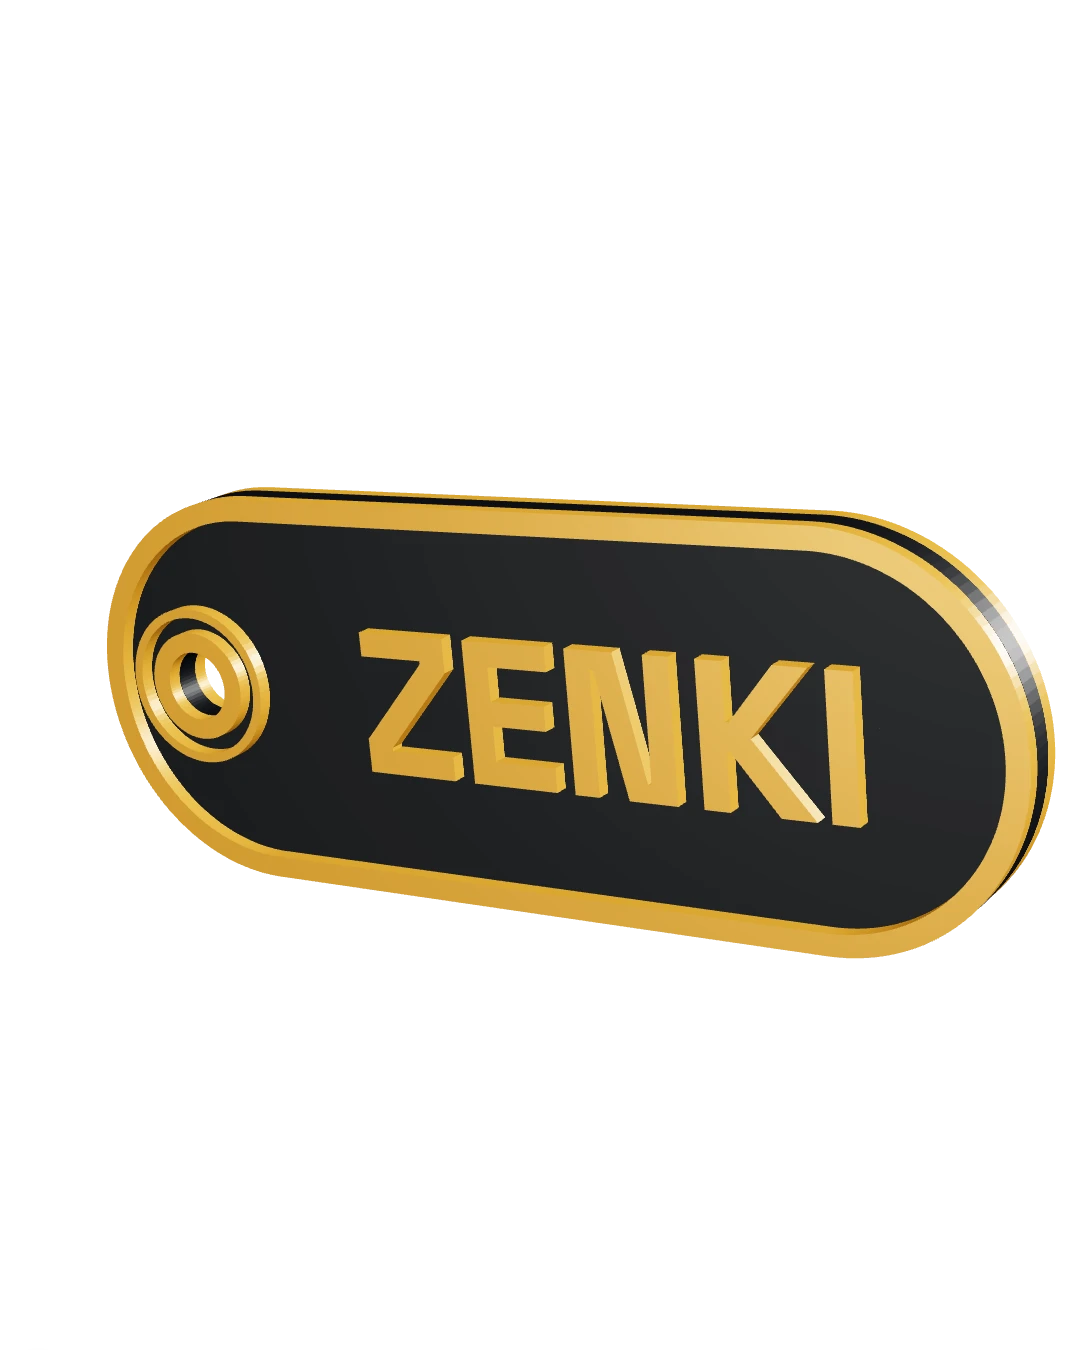
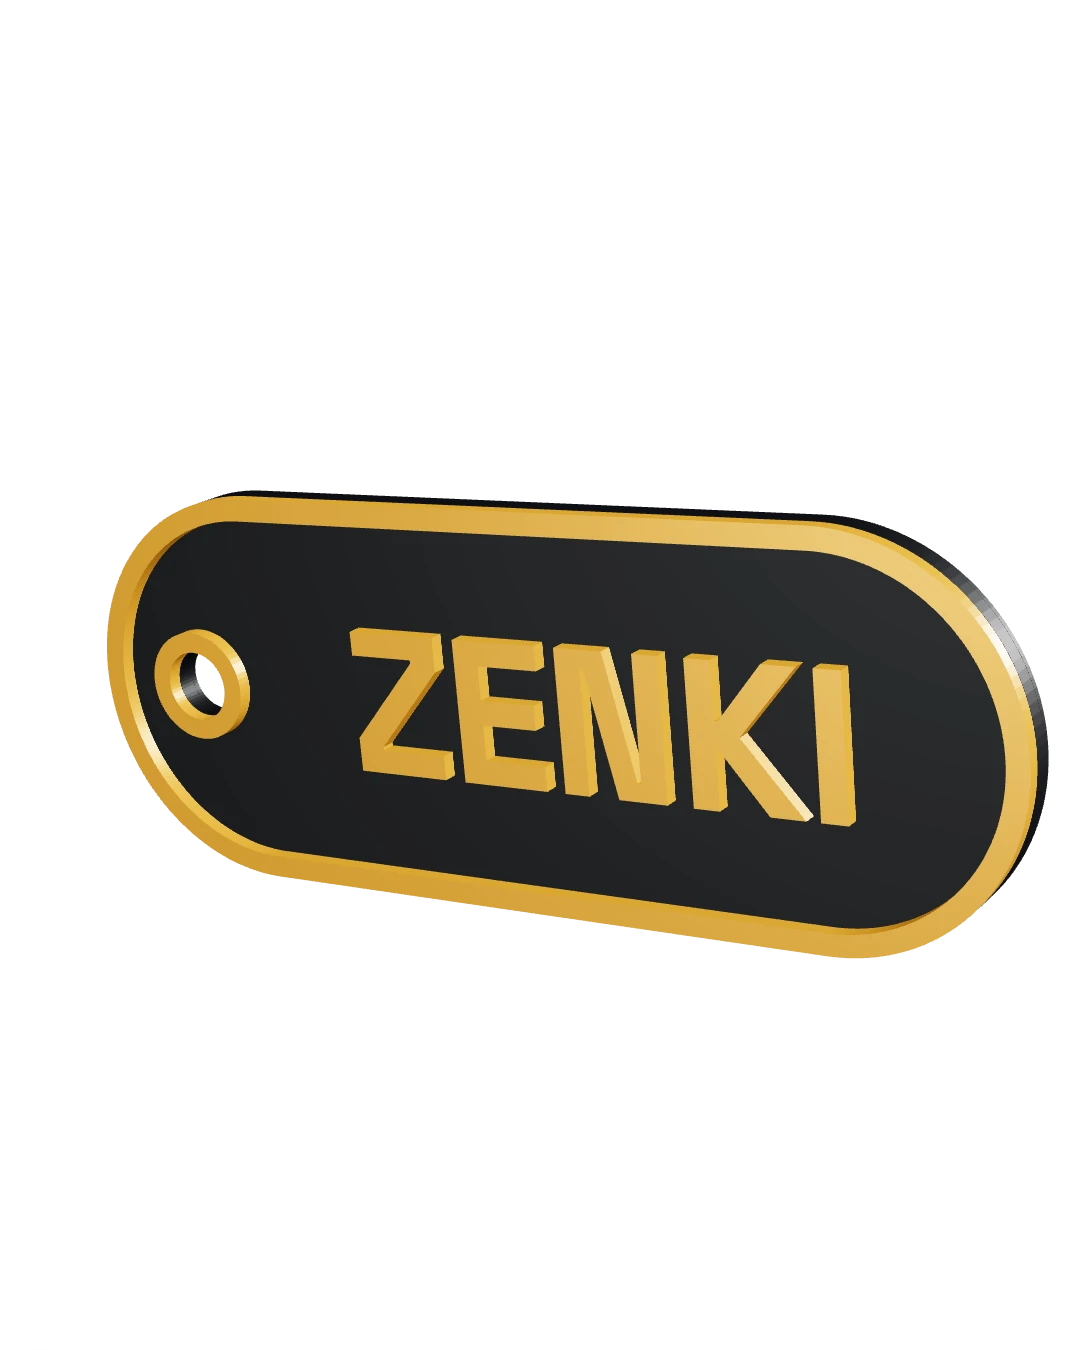
feat: flat back and a single ring on the key tag
The back is completely flat with no rim, ring or relief. The marketing line, when kept, is a flush 0.4 mm color inlay. One ring around the keyring hole instead of two. Tag is 2.6 mm thick and prints back face down. RFID pocket moved up so it clears the inlay.

diff --git a/src/components/keytag/geometry.ts b/src/components/keytag/geometry.ts
@@ -6,12 +6,14 @@ import fontData from "./spacegrotesk_bold.typeface.json";
 import { COMBOS, TAG, type KeyTagConfig } from "@/lib/keytag";
 
 // All units are millimetres. Front face is +Z, the tag lies flat.
-// Capsule with a raised rim, raised lettering and rings on both faces. Everything inside the
-// rim is the recessed floor (debossed by TAG.EMBOSS). Floor and rim are separate meshes so the
-// printer can use two colors: black floor, accent rim and lettering.
+// FRONT: a raised rim, one ring around the keyring hole and raised lettering stand TAG.EMBOSS
+// above a recessed floor.
+// BACK: completely flat. If the marketing line is kept it is a flush color inlay (no relief).
+// Floor and accent are separate meshes so the printer can use two colors.
 const font = new FontLoader().parse(fontData as unknown as Parameters<FontLoader["parse"]>[0]);
 
-const { W, H, FLOOR: F, EMBOSS: E, RIM, HOLE_R, HOLE_X } = TAG;
+const { W, H, FLOOR: F, EMBOSS: E, INLAY: I, RIM, HOLE_R, HOLE_X } = TAG;
+const BOSS = 1.3; // width of the single ring around the keyring hole
 
 /** Capsule (stadium) outline in the XY plane, centred on the origin, shrunk by `inset`. */
 function capsule(inset = 0) {
@@ -33,30 +35,29 @@ const circle = (r: number, x = 0, y = 0) => {
   return p;
 };
 
-/**
- * Put a symmetric shape's extrusion on the front (+Z, starting at the floor) or back (-Z) face.
- * No mirroring: rings and the rim sit at the same X on both faces. Only lettering is mirrored (see text()).
- */
-const onFace = (g: THREE.BufferGeometry, side: 1 | -1) => {
-  g.translate(0, 0, side === 1 ? F : -E);
+const extrude = (shape: THREE.Shape, depth: number, z: number) => {
+  const g = new THREE.ExtrudeGeometry(shape, { depth, bevelEnabled: false, curveSegments: 32 });
+  g.translate(0, 0, z);
   return g;
 };
 
-function rimBand(side: 1 | -1) {
+/** Raised rim on the front face */
+function rimBand() {
   const outer = capsule(0);
   outer.holes.push(new THREE.Path(capsule(RIM).getPoints(64).reverse()));
-  return onFace(new THREE.ExtrudeGeometry(outer, { depth: E, bevelEnabled: false, curveSegments: 32 }), side);
+  return extrude(outer, E, F);
 }
 
-function ringAt(rIn: number, rOut: number, side: 1 | -1) {
+/** The single ring around the keyring hole, front face */
+function boss() {
   const s = new THREE.Shape();
-  s.absarc(HOLE_X, 0, rOut, 0, Math.PI * 2, false);
-  s.holes.push(circle(rIn, HOLE_X, 0));
-  return onFace(new THREE.ExtrudeGeometry(s, { depth: E, bevelEnabled: false, curveSegments: 40 }), side);
+  s.absarc(HOLE_X, 0, HOLE_R + BOSS, 0, Math.PI * 2, false);
+  s.holes.push(circle(HOLE_R, HOLE_X, 0));
+  return extrude(s, E, F);
 }
 
-/** Lettering fitted into a w x h box (mm) centred at (cx, cy). Raised by E on the chosen face. */
-function text(str: string, cx: number, cy: number, w: number, h: number, side: 1 | -1) {
+/** Raised lettering fitted into a w x h box (mm) centred at (cx, cy), front face. */
+function frontText(str: string, cx: number, cy: number, w: number, h: number) {
   if (!str.trim()) return null;
   const g = new TextGeometry(str, { font, size: 10, depth: E, curveSegments: 6, bevelEnabled: false });
   g.computeBoundingBox();
@@ -64,9 +65,26 @@ function text(str: string, cx: number, cy: number, w: number, h: number, side: 1
   g.translate(-(b.max.x + b.min.x) / 2, -(b.max.y + b.min.y) / 2, 0);
   const s = Math.min(w / (b.max.x - b.min.x), h / (b.max.y - b.min.y));
   g.scale(s, s, 1);
-  if (side === -1) g.rotateY(Math.PI);
-  g.translate(cx, cy, side === 1 ? F : 0);
+  g.translate(cx, cy, F);
   return g;
+}
+
+type Glyph = { outer: THREE.Vector2[]; counters: THREE.Vector2[][] };
+
+/** Letter outlines fitted into a w x h box centred at (cx, cy), mirrored so they read correctly from behind. */
+function backOutlines(str: string, cx: number, cy: number, w: number, h: number): Glyph[] {
+  const raw = font.generateShapes(str, 10).map((sh) => {
+    const p = sh.extractPoints(10);
+    return { outer: p.shape, counters: p.holes };
+  });
+  let x0 = Infinity, x1 = -Infinity, y0 = Infinity, y1 = -Infinity;
+  for (const g of raw) for (const v of g.outer) {
+    x0 = Math.min(x0, v.x); x1 = Math.max(x1, v.x); y0 = Math.min(y0, v.y); y1 = Math.max(y1, v.y);
+  }
+  const s = Math.min(w / (x1 - x0), h / (y1 - y0));
+  const mx = (x0 + x1) / 2, my = (y0 + y1) / 2;
+  const map = (v: THREE.Vector2) => new THREE.Vector2(cx - (v.x - mx) * s, cy + (v.y - my) * s);
+  return raw.map((g) => ({ outer: g.outer.map(map), counters: g.counters.map((c) => c.map(map)) }));
 }
 
 /** Closed box with its faces turned inside out, so a slicer reads it as a hollow. */
@@ -84,50 +102,66 @@ function voidBox(w: number, h: number, t: number, x: number, z: number) {
   return b.toNonIndexed();
 }
 
-// Lettering zone: right of the keyring rings, inside the rim
-const ZONE_L = HOLE_X + HOLE_R + 2.9 + 2.2; // past the outer ring, with a clear gap
+const flat = (g: THREE.BufferGeometry) => (g.index ? g.toNonIndexed() : g);
+
+// Lettering zone: right of the ring around the hole, inside the rim
+const ZONE_L = HOLE_X + HOLE_R + BOSS + 2.4;
 const ZONE_R = W / 2 - RIM - 2.6;
 const ZONE = { cx: (ZONE_L + ZONE_R) / 2, w: ZONE_R - ZONE_L, h: 9 };
 
-/** Floor (black) and rim, rings and lettering (accent). forPrint lifts the tag so the back emboss sits on the bed at z = 0. */
-export function buildKeyTag(c: KeyTagConfig, forPrint = false) {
-  // Floor with the keyring hole cut through
-  const floorShape = capsule(0);
-  floorShape.holes.push(circle(HOLE_R, HOLE_X, 0));
-  let body: THREE.BufferGeometry = new THREE.ExtrudeGeometry(floorShape, { depth: F, bevelEnabled: false, curveSegments: 32 });
-  if (c.rfid) {
-    // Sealed pocket for a 20 x 10 mm wet inlay, in the middle of the floor
-    const { w, h, t, cx } = TAG.POCKET;
-    body = mergeGeometries([body.index ? body.toNonIndexed() : body, voidBox(w, h, t, cx, F / 2)], false);
-  }
-
+/** Floor (black) and rim, ring and lettering (accent). Model z: back face at 0, front rim and lettering up to F + E. */
+export function buildKeyTag(c: KeyTagConfig) {
+  const bodyParts: THREE.BufferGeometry[] = [];
   const accent: THREE.BufferGeometry[] = [];
-  const push = (g: THREE.BufferGeometry | null) => g && accent.push(g);
-  for (const side of [1, -1] as const) {
-    push(rimBand(side));
-    push(ringAt(HOLE_R, HOLE_R + 1.3, side)); // boss around the hole
-    push(ringAt(HOLE_R + 2.3, HOLE_R + 2.9, side)); // thin outer ring
-  }
-  push(text(c.text, ZONE.cx, 0, ZONE.w, ZONE.h, 1));
-  if (c.branding) push(text("ZenkiLab.com", ZONE.cx, 0, ZONE.w, 6, -1));
 
-  const merged = mergeGeometries(accent.map((g) => (g.index ? g.toNonIndexed() : g)), false);
-  accent.forEach((g) => g.dispose());
-  if (forPrint) {
-    body.translate(0, 0, E);
-    merged.translate(0, 0, E);
+  const floorShape = (holes: THREE.Path[] = []) => {
+    const s = capsule(0);
+    s.holes.push(circle(HOLE_R, HOLE_X, 0), ...holes);
+    return s;
+  };
+
+  if (c.branding) {
+    // Flush inlay on the back: the marketing line replaces the bottom INLAY mm of the floor
+    const glyphs = backOutlines("ZenkiLab.com", ZONE.cx, 0, ZONE.w, 6);
+    const bottom = floorShape(glyphs.map((g) => new THREE.Path(g.outer)));
+    bodyParts.push(flat(extrude(bottom, I, 0)));
+    for (const g of glyphs) {
+      // counters (the middle of an "a" or "b") stay floor, letters fill with the accent color
+      for (const counter of g.counters) bodyParts.push(flat(extrude(new THREE.Shape(counter), I, 0)));
+      const letter = new THREE.Shape(g.outer);
+      letter.holes = g.counters.map((cn) => new THREE.Path(cn));
+      accent.push(extrude(letter, I, 0));
+    }
+    bodyParts.push(flat(extrude(floorShape(), F - I, I)));
+  } else {
+    bodyParts.push(flat(extrude(floorShape(), F, 0)));
   }
+
+  if (c.rfid) {
+    // Sealed pocket for a 20 x 10 mm wet inlay, inside the floor
+    const { w, h, t, cx, zc } = TAG.POCKET;
+    bodyParts.push(voidBox(w, h, t, cx, zc));
+  }
+
+  accent.push(rimBand(), boss());
+  const t = frontText(c.text, ZONE.cx, 0, ZONE.w, ZONE.h);
+  if (t) accent.push(t);
+
+  const body = mergeGeometries(bodyParts, false);
+  const merged = mergeGeometries(accent.map(flat), false);
+  bodyParts.forEach((g) => g.dispose());
+  accent.forEach((g) => g.dispose());
   return { body, accent: merged };
 }
 
-/** One mesh per color so AMS slots map one to one. Used by the 3MF export. */
+/** One mesh per color so AMS slots map one to one. Used by the 3MF export. The back is flat, so it prints face down on the bed. */
 export function buildPrintGroup(c: KeyTagConfig) {
-  const { body, accent } = buildKeyTag(c, true);
+  const { body, accent } = buildKeyTag(c);
   const combo = COMBOS[c.combo];
   const b = new THREE.Mesh(body, new THREE.MeshStandardMaterial({ color: combo.body }));
   b.name = "Floor (black)";
   const a = new THREE.Mesh(accent, new THREE.MeshStandardMaterial({ color: combo.accent }));
-  a.name = `Rim and lettering (${combo.accentName})`;
+  a.name = `Rim, ring and lettering (${combo.accentName})`;
   const g = new THREE.Group();
   g.name = "ZenkiLab Key Tag";
   g.add(b, a);

diff --git a/src/lib/keytag.ts b/src/lib/keytag.ts
@@ -8,22 +8,26 @@ export const BRANDING_DISCOUNT = 50; // Rs., for keeping the zenkilab.com stamp
 export const RFID_PRICE = 200; // Rs., optional RFID chip inside the tag
 export const QUOTE_HOURS = 24;
 
-/** Physical tag, millimetres. Rim, lettering and rings stand EMBOSS above a recessed floor on both faces. */
+/**
+ * Physical tag, millimetres. FRONT: rim, ring and lettering stand EMBOSS above a recessed floor.
+ * BACK: completely flat. The marketing line, when kept, is a flush color inlay INLAY deep.
+ */
 export const TAG = {
   W: 64,
   H: 25,
-  FLOOR: 1.6, // thickness of the recessed floor
-  EMBOSS: 1.0, // how far rim and lettering stand above (and the floor sits below) each face
+  FLOOR: 1.6, // thickness of the floor
+  EMBOSS: 1.0, // how far rim, ring and lettering stand above the floor, front only
+  INLAY: 0.4, // depth of the flush marketing lettering on the back
   RIM: 1.4, // width of the raised border
   HOLE_R: 2.25, // keyring hole radius
   HOLE_X: -24.5,
-  /** Wet RFID inlay, 20 x 10 mm with clearance, sealed inside the floor */
-  POCKET: { w: 20.6, h: 10.6, t: 0.5, cx: 4.6 },
+  /** Wet RFID inlay, 20 x 10 mm with clearance, sealed inside the floor. zc = height of its centre from the back face. */
+  POCKET: { w: 20.6, h: 10.6, t: 0.5, cx: 4.6, zc: 0.9 },
 } as const;
 
-// Total thickness = FLOOR + 2 x EMBOSS = 3.6 mm
-// Print Z (back face down) at which the pocket roof starts, where the operator pauses
-export const RFID_PAUSE_Z = TAG.EMBOSS + TAG.FLOOR / 2 + TAG.POCKET.t / 2;
+// Total thickness = FLOOR + EMBOSS = 2.6 mm. The flat back prints face down on the bed.
+// Print Z at which the pocket roof starts, where the operator pauses
+export const RFID_PAUSE_Z = TAG.POCKET.zc + TAG.POCKET.t / 2;
 
 export const STYLES: Record<StyleId, { label: string; maxChars: number; basePrice: number }> = {
   capsule: {
@@ -97,7 +101,7 @@ export function orderSpec(
     `Text: "${c.text}"`,
     `Color combo: ${combo.label} (black body + ${combo.accentName} accent)`,
     `Material: ${MATERIAL}`,
-    `Back: ${c.branding ? "zenkilab.com stamp only" : "blank"}`,
+    `Back: flat. ${c.branding ? "ZenkiLab.com as a flush 0.4 mm color inlay, no relief" : "blank"}`,
     `RFID chip: ${c.rfid ? "YES, embed before sealing (+Rs. 200)" : "no"}`,
     `zenkilab.com stamp: ${c.branding ? "ON (Rs. 50 discount applied)" : "OFF"}`,
     "",

diff --git a/src/app/store/key-tag/page.tsx b/src/app/store/key-tag/page.tsx
@@ -184,7 +184,7 @@ export default function KeyTagPage() {
                   Keep the zenkilab.com stamp on the back and save <span className="font-mono">{rs(BRANDING_DISCOUNT)}</span>
                 </span>
               </label>
-              <p className="pl-7 text-xs text-muted-foreground">Without it, the back is left blank.</p>
+              <p className="pl-7 text-xs text-muted-foreground">The back is always flat. Without the stamp it is left plain.</p>
               <label className="flex cursor-pointer items-start gap-3 border-t border-border pt-3">
                 <input type="checkbox" checked={rfid} onChange={(e) => setRfid(e.target.checked)} className="mt-1 h-4 w-4 accent-[color:var(--color-accent-primary)]" />
                 <span className="text-sm">

diff --git a/src/lib/store.ts b/src/lib/store.ts
@@ -62,7 +62,7 @@ const keyTagStage: StageSlide[] = [
     cut: "/store/key-tag-cut.webp",
     alt: "A black capsule key tag with a raised amber rim and lettering",
     // the tag is wider than the circle so its ends come out of the sides
-    box: place({ size: CHIBI_SIZE, bbox: [107, 487, 1055, 958], width: 1.2, centre: 0.5 }),
+    box: place({ size: CHIBI_SIZE, bbox: [107, 490, 1048, 958], width: 1.2, centre: 0.5 }),
   },
 ];
 

diff --git a/src/app/store/key-tag/quote/page.tsx b/src/app/store/key-tag/quote/page.tsx
@@ -83,7 +83,7 @@ export default function QuotePage() {
     ["Text", c.text],
     ["Colors", `${combo.label}, black and ${combo.accentName}`],
     ["Material", MATERIAL],
-    ["Back", c.branding ? "zenkilab.com stamp" : "Blank"],
+    ["Back", c.branding ? "Flat, with zenkilab.com as a flush inlay" : "Flat and plain"],
     ["RFID chip", c.rfid ? "Included" : "No"],
   ];
 

diff --git a/DESIGN_SYSTEM.md b/DESIGN_SYSTEM.md
@@ -81,11 +81,12 @@ Already implemented in `header.tsx` and `favicon.svg` (rings/Z only — wordmark
 - **Content types:** Name or Car Number, selected via toggle — selecting Car Number nudges the style recommendation toward plate-shaped designs.
 - **Character limit, enforced live in the customizer:** 14 characters, lettering auto-fits the space beside the keyring rings.
 - **Front:** only what the customer types. **Back:** the zenkilab.com marketing stamp, or blank without it. The stamp is opt-out by default (pre-checked), Rs. 50 discount for keeping it on. Framed positively ("save Rs. 50"), not as a penalty for removing it.
-- **Shape (v1): one capsule**, 64 x 25 mm, 3.6 mm thick, keyring hole at the left with a boss ring and a thin outer ring (the logomark's ring motif). It replaces the earlier Data Plate and License Plate styles: one shape holds a name or a car number, there is no style picker, and one price. Heritage Badge and Coin Medallion stay phase two.
-- **Emboss and deboss:** the rim (1.4 mm wide), the lettering and the rings stand 1.0 mm proud on both faces. Everything inside the rim is the recessed floor, 1.6 mm thick, so 1.0 mm deboss and 3.6 mm overall. Lettering is Space Grotesk Bold, at least 0.8 mm stroke and about 5 mm tall or more so it prints cleanly.
-- **Colors in print:** black floor, accent (amber or cyan) rim, rings and lettering. Two objects in the 3MF, one per color. Back face: rim and rings always, `ZenkiLab.com` raised only if the marketing line is kept.
+- **Shape (v1): one capsule**, 64 x 25 mm, 2.6 mm thick, keyring hole at the left with a single ring around it (the logomark's ring motif). It replaces the earlier Data Plate and License Plate styles: one shape holds a name or a car number, there is no style picker, and one price. Heritage Badge and Coin Medallion stay phase two.
+- **Emboss and deboss (front only):** the rim (1.4 mm wide), the ring and the lettering stand 1.0 mm proud of the recessed floor, which is 1.6 mm thick. Lettering is Space Grotesk Bold, at least 0.8 mm stroke and about 5 mm tall or more so it prints cleanly.
+- **Back is completely flat.** No rim, no ring, no relief. If the marketing line is kept, `ZenkiLab.com` is a flush 0.4 mm color inlay in the accent color, otherwise the back is plain. The flat back prints face down on the bed.
+- **Colors in print:** black floor, accent (amber or cyan) rim, ring and lettering. Two objects in the 3MF, one per color.
 - **Pricing:** Rs. 300 without the marketing line and without RFID, Rs. 250 with the `ZenkiLab.com` line, RFID chip adds Rs. 200 either way.
-- **RFID (optional):** a 20 x 10 mm wet inlay sealed in a 20.6 x 10.6 x 0.5 mm pocket inside the floor. The operator pauses the print at Z = 2.05 mm, places the inlay, and resumes. The emailed spec says when to pause.
+- **RFID (optional):** a 20 x 10 mm wet inlay sealed in a 20.6 x 10.6 x 0.5 mm pocket inside the floor (centred 0.9 mm from the back). The operator pauses the print at Z = 1.15 mm, places the inlay, and resumes. The emailed spec says when to pause.
 - Keyring holes across all styles: concentric double-ring detail, echoing the logomark's ring motif.
 
 ---
